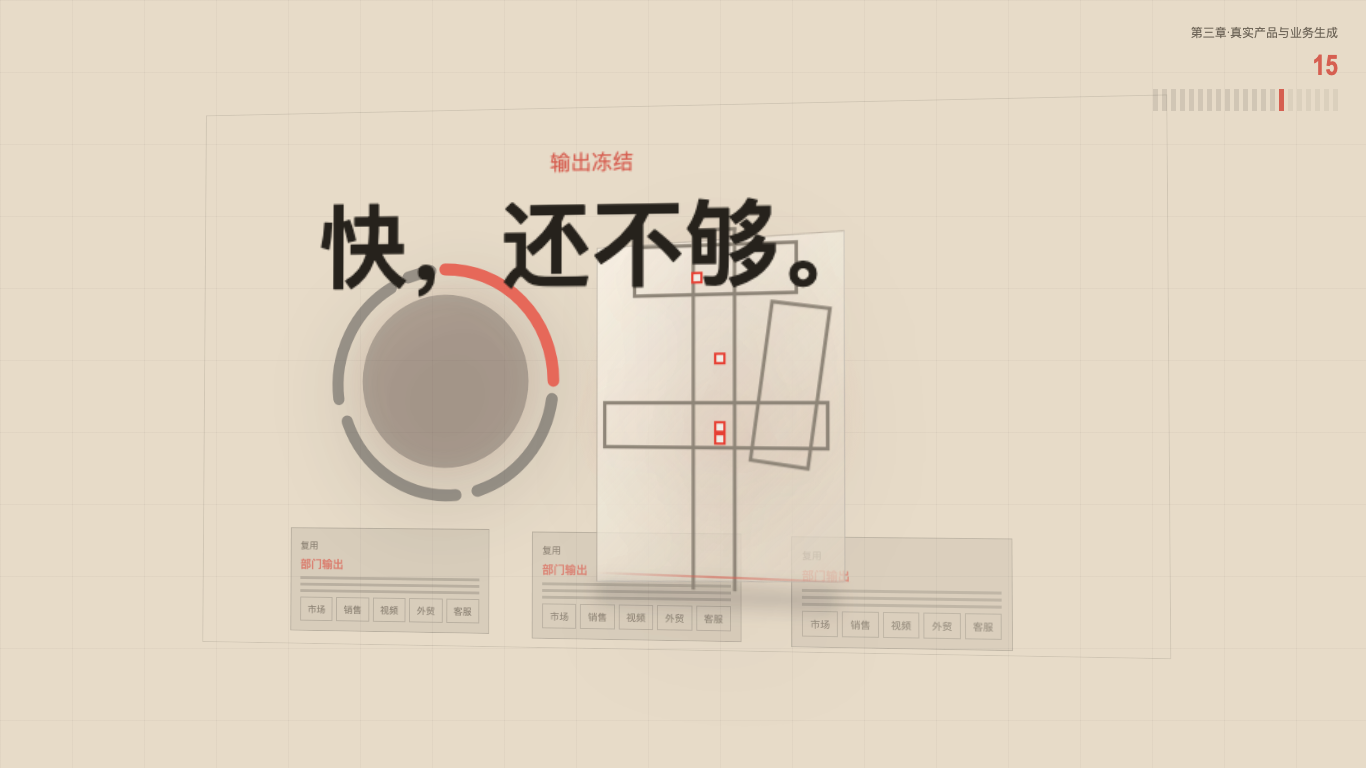
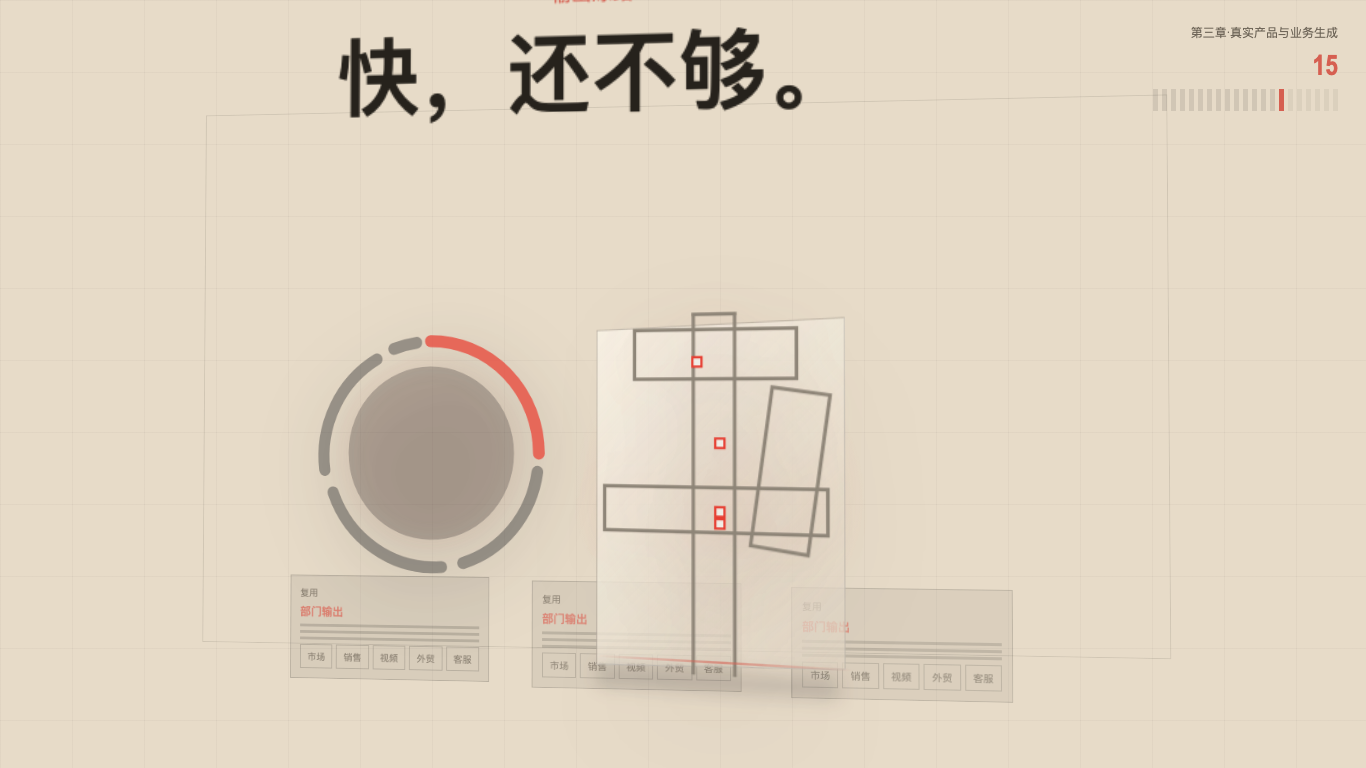
Sharpen V4 customer demo key frames

Changed region(s): [[0.2152, 0.1875, 0.7379, 0.9375], [0.369, 0.0312, 0.5842, 0.1562], [0.246, 0.0312, 0.3382, 0.1562]]

diff --git a/src/styles/spatial-lab.css b/src/styles/spatial-lab.css
@@ -770,22 +770,48 @@
 }
 
 .spatial-lab-action-path-geometry {
+  background:
+    linear-gradient(135deg, rgba(255, 250, 239, 0.58), rgba(214, 202, 184, 0.16)),
+    rgba(230, 219, 200, 0.6);
+  border: 1px solid rgba(31, 29, 25, 0.16);
+  box-shadow:
+    0 24px 64px rgba(31, 29, 25, 0.16),
+    inset 0 1px 0 rgba(255, 250, 239, 0.44);
+  display: grid;
+  gap: 0;
+  height: 100%;
+  padding: 16px 18px 12px;
+  position: relative;
+  width: 100%;
+}
+
+.spatial-lab-action-path-geometry svg {
   display: block;
   height: 100%;
   overflow: visible;
   width: 100%;
 }
 
+.action-path-kicker {
+  color: #d65f51;
+  font-size: 12px;
+  font-weight: 650;
+  letter-spacing: 0;
+  position: absolute;
+  top: 12px;
+  left: 16px;
+}
+
 .spatial-lab-action-path-line {
   fill: none;
-  stroke: rgba(242, 234, 220, 0.76);
+  stroke: rgba(255, 250, 239, 0.92);
   stroke-linecap: round;
-  stroke-width: 5;
+  stroke-width: 7;
 }
 
 .spatial-lab-action-path-node {
   fill: #141311;
-  stroke: rgba(242, 234, 220, 0.84);
+  stroke: rgba(255, 250, 239, 0.9);
   stroke-width: 4;
 }
 
@@ -794,12 +820,32 @@
   stroke: rgba(242, 234, 220, 0.9);
 }
 
+.action-path-labels {
+  bottom: 12px;
+  display: grid;
+  gap: 10px;
+  grid-template-columns: repeat(4, minmax(0, 1fr));
+  left: 16px;
+  position: absolute;
+  right: 16px;
+}
+
+.action-path-labels span {
+  border-top: 1px solid rgba(31, 29, 25, 0.18);
+  color: #6f6659;
+  font-size: 12px;
+  letter-spacing: 0;
+  padding-top: 7px;
+  text-align: center;
+}
+
 .spatial-lab-source-packet-geometry,
 .spatial-lab-fact-benefit-geometry,
 .spatial-lab-output-cards-geometry,
 .spatial-lab-human-review-geometry,
 .spatial-lab-action-confirm-geometry,
 .spatial-lab-cta-dock-geometry {
+  align-content: start;
   background:
     linear-gradient(135deg, rgba(242, 234, 220, 0.16), rgba(242, 234, 220, 0.04)),
     rgba(20, 19, 17, 0.74);
@@ -814,6 +860,20 @@
   padding: 18px;
   position: relative;
   width: 100%;
+}
+
+.spatial-lab-cta-dock-geometry {
+  min-width: 280px;
+}
+
+.spatial-lab-cta-dock-geometry::after {
+  background: linear-gradient(90deg, #d65f51, transparent);
+  bottom: 0;
+  content: "";
+  height: 3px;
+  left: 0;
+  position: absolute;
+  right: 0;
 }
 
 .spatial-lab-viewport[data-world-tone="paper"] .spatial-lab-source-packet-geometry,
@@ -1083,6 +1143,19 @@
   border-color: var(--lab-surface-border);
 }
 
+.cta-action-lines {
+  display: grid;
+  gap: 6px;
+}
+
+.cta-action-lines span {
+  border: 1px solid var(--lab-surface-border);
+  color: var(--lab-muted);
+  font-size: 12px;
+  letter-spacing: 0;
+  padding: 7px 9px;
+}
+
 .spatial-lab-artifact-system {
   inset: 0;
   position: absolute;
@@ -1286,13 +1359,13 @@
   left: 50%;
   max-width: 760px;
   text-align: center;
-  top: 38%;
+  top: 23%;
   transform: translate3d(-50%, -50%, 320px);
 }
 
 .spatial-lab-world-typography[data-world-motion-state="frozen"] strong {
   color: #26221c;
-  font-size: 62px;
+  font-size: 58px;
   line-height: 1;
 }
 

diff --git a/tests/wp59-v4-demo-complete.test.ts b/tests/wp59-v4-demo-complete.test.ts
@@ -56,6 +56,7 @@ test("WP-59 FT-04 establishes the final pullback loop with placeholder CTA only"
 
 test("WP-59 customer demo actors have audience bodies without engineering labels in review", () => {
   const labSource = readFileSync("src/presentation/spatial-lab/SpatialLabClientStage.tsx", "utf8");
+  const actionPathSource = readFileSync("src/presentation/spatial-lab/ActionPathGreybox.tsx", "utf8");
   const runtimeSource = readFileSync("src/presentation/spatial-lab/PoseTransitionRuntime.tsx", "utf8");
   const cssSource = readFileSync("src/styles/spatial-lab.css", "utf8");
 
@@ -65,10 +66,15 @@ test("WP-59 customer demo actors have audience bodies without engineering labels
   assert.match(labSource, /function ScenarioRadarGreybox/);
   assert.match(labSource, /function CtaDockGreybox/);
   assert.match(labSource, /真实二维码待确认/);
+  assert.match(labSource, /演示后行动/);
+  assert.match(labSource, /资料清单/);
+  assert.match(actionPathSource, /30 分钟/);
   assert.match(runtimeSource, /previousTarget\.beatId === "20\.10" && target\.beatId === "21\.1"/);
   assert.match(runtimeSource, /previousTarget\.beatId === "21\.1" && target\.beatId === "20\.10"/);
   assert.match(cssSource, /\.spatial-lab-cta-dock-geometry/);
   assert.match(cssSource, /\.spatial-lab-scenario-radar-geometry/);
+  assert.match(cssSource, /\.action-path-labels/);
+  assert.match(cssSource, /\.cta-action-lines/);
   assert.match(cssSource, /\.spatial-lab-root\[data-lab-mode="review"\] \.artifact-debug-id/);
 });
 
@@ -84,4 +90,13 @@ test("WP-59 VP-01 adds customer-facing scene context and premium placeholder pro
   assert.match(cssSource, /\.product-visual-backplate/);
   assert.match(cssSource, /\.product-visual-glow/);
   assert.doesNotMatch(labSource, /qr\.png|QRCode|真实报名链接/);
+});
+
+test("WP-59 VP-02 keeps the freeze headline clear of the product anchor", () => {
+  const freeze = resolveStageTarget("15.8");
+  const cssSource = readFileSync("src/styles/spatial-lab.css", "utf8");
+
+  assert.ok(Math.abs(freeze.camera.x + freeze.actors["actor.product-stage"].x) <= 40);
+  assert.ok(freeze.actors["actor.product-stage"].y >= 96);
+  assert.match(cssSource, /data-world-motion-state="frozen"[\s\S]*top: 23%/);
 });

diff --git a/src/presentation/spatial-lab/stage-target.ts b/src/presentation/spatial-lab/stage-target.ts
@@ -1120,8 +1120,8 @@ function getFt01ProductJourneyTarget(beatId: BeatId, sceneNumber: number): Proof
         cameraPresence: "support",
         rotateY: isFreezeBeat ? -4 : -10,
         scale: isFreezeBeat ? 0.82 : 1.08,
-        x: isFreezeBeat ? -204 : -112,
-        y: isFreezeBeat ? 8 : -6,
+        x: isFreezeBeat ? -218 : -112,
+        y: isFreezeBeat ? 78 : -6,
         z: isFreezeBeat ? -48 : 18
       },
       "actor.product-stage": {
@@ -1129,7 +1129,7 @@ function getFt01ProductJourneyTarget(beatId: BeatId, sceneNumber: number): Proof
         rotateY: -10,
         scale: isFreezeBeat ? 0.92 : 0.94,
         x: isFreezeBeat ? 72 : station.productX,
-        y: isFreezeBeat ? 34 : station.productY,
+        y: isFreezeBeat ? 100 : station.productY,
         z: isFreezeBeat ? 168 : station.focusZ
       }
     },
@@ -1164,7 +1164,7 @@ function createFt01ArtifactPatches(
   station: Ft01StationConfig,
   isFreezeBeat: boolean
 ): ProofArtifactPatch {
-  const y = isFreezeBeat ? 186 : 126;
+  const y = isFreezeBeat ? 228 : 126;
   const z = isFreezeBeat ? 62 : 104;
   const freezeX = -222;
   return {
@@ -1600,9 +1600,9 @@ function createActionRouteTarget(beatId: BeatId): ProofTarget {
       },
       "actor.action-path": {
         cameraPresence: "featured",
-        scale: isFinalActionBeat ? 1.08 : 1,
-        x: isFinalActionBeat ? 26 : 8,
-        y: isFinalActionBeat ? 104 : 120,
+        scale: isFinalActionBeat ? 1.2 : 1,
+        x: isFinalActionBeat ? 82 : 8,
+        y: isFinalActionBeat ? 68 : 120,
         z: isFinalActionBeat ? 210 : 160
       }
     },
@@ -1667,16 +1667,16 @@ function getFt04FinaleTarget(beatId: BeatId): ProofTarget | undefined {
       "actor.action-path": {
         cameraPresence: "support",
         rotateX: 8,
-        scale: 0.94,
-        x: -4,
-        y: 110,
+        scale: 1.02,
+        x: -18,
+        y: 96,
         z: 48
       },
       "actor.cta-dock": {
         cameraPresence: "featured",
-        scale: 1,
-        x: 228,
-        y: -24,
+        scale: 1.12,
+        x: 252,
+        y: -32,
         z: 172
       }
     },

diff --git a/src/presentation/spatial-lab/ActionPathGreybox.tsx b/src/presentation/spatial-lab/ActionPathGreybox.tsx
@@ -1,15 +1,20 @@
 export function ActionPathGreybox() {
   return (
-    <svg
-      aria-hidden="true"
-      className="spatial-lab-action-path-geometry"
-      data-actor-geometry="action-path"
-      viewBox="0 0 320 150"
-    >
-      <path className="spatial-lab-action-path-line" d="M24 112 C82 42 144 116 204 62 S282 38 296 24" />
-      <circle className="spatial-lab-action-path-node" cx="24" cy="112" r="8" />
-      <circle className="spatial-lab-action-path-node signal" cx="204" cy="62" r="10" />
-      <circle className="spatial-lab-action-path-node" cx="296" cy="24" r="8" />
-    </svg>
+    <section className="spatial-lab-action-path-geometry" data-actor-geometry="action-path">
+      <span className="action-path-kicker">行动路径</span>
+      <svg aria-hidden="true" viewBox="0 0 360 168">
+        <path className="spatial-lab-action-path-line" d="M28 128 C88 48 156 124 224 70 S318 42 338 26" />
+        <circle className="spatial-lab-action-path-node" cx="28" cy="128" r="8" />
+        <circle className="spatial-lab-action-path-node signal" cx="128" cy="74" r="9" />
+        <circle className="spatial-lab-action-path-node signal" cx="224" cy="70" r="11" />
+        <circle className="spatial-lab-action-path-node" cx="338" cy="26" r="8" />
+      </svg>
+      <div className="action-path-labels" aria-hidden="true">
+        <span>今天</span>
+        <span>30 分钟</span>
+        <span>3 天</span>
+        <span>3 个月</span>
+      </div>
+    </section>
   );
 }

diff --git a/src/presentation/spatial-lab/SpatialLabClientStage.tsx b/src/presentation/spatial-lab/SpatialLabClientStage.tsx
@@ -668,12 +668,17 @@ function CtaDockGreybox() {
   return (
     <section className="spatial-lab-cta-dock-geometry" data-actor-geometry="cta-dock">
       <span className="actor-body-kicker">下一步</span>
-      <strong>CTA 占位</strong>
+      <strong>演示后行动</strong>
       <div className="cta-placeholder-grid" aria-hidden="true">
         <span />
         <span />
         <span />
         <span />
+      </div>
+      <div className="cta-action-lines" aria-hidden="true">
+        <span>资料清单</span>
+        <span>场景诊断</span>
+        <span>样板计划</span>
       </div>
       <small>真实二维码待确认</small>
     </section>

diff --git a/review/v4-demo-complete-report.md b/review/v4-demo-complete-report.md
@@ -23,6 +23,10 @@
 - VP-02：21 幕讲述补齐。
   - 每个 Scene 保留明确章节/场景上下文。
   - 非关键 Beat 继续以稳定观察和轻量强调为主，不为 144 个 Beat 单独做进场动画。
+- 客户演示关键帧强化。
+  - `15.8` 冻结端点将“快，还不够。”保持为唯一主视觉标题，并把 Ring、Product、部门输出下沉分层，减少互相压叠。
+  - `20.10` 行动路径升级为可读主视觉，增加“今天 / 30 分钟 / 3 天 / 3 个月”时间节点。
+  - `21.1` CTA 占位升级为“演示后行动”模块，保留资料清单、场景诊断、样板计划三项占位行动，不生成真实二维码。
 
 ## 仍为占位的内容
 
@@ -59,13 +63,14 @@
 
 - `npm run lint`：通过。
 - `npm run typecheck`：通过。第一次与 `npm run build` 并行运行时因为 `.next/types` 正在重建出现读写竞争，串行重跑后通过。
-- `npm run test`：通过，202 项通过。
+- `npm run test`：通过，203 项通过。
 - `npm run build`：通过。
 
 ## 本轮代码实现提交
 
 - `df2e962`：Complete V4 safety action and finale path
 - `eac151c`：Polish V4 customer demo shell
+- `cee0fd5`：Package V4 customer demo evidence
 
 ## 下一步建议
 
